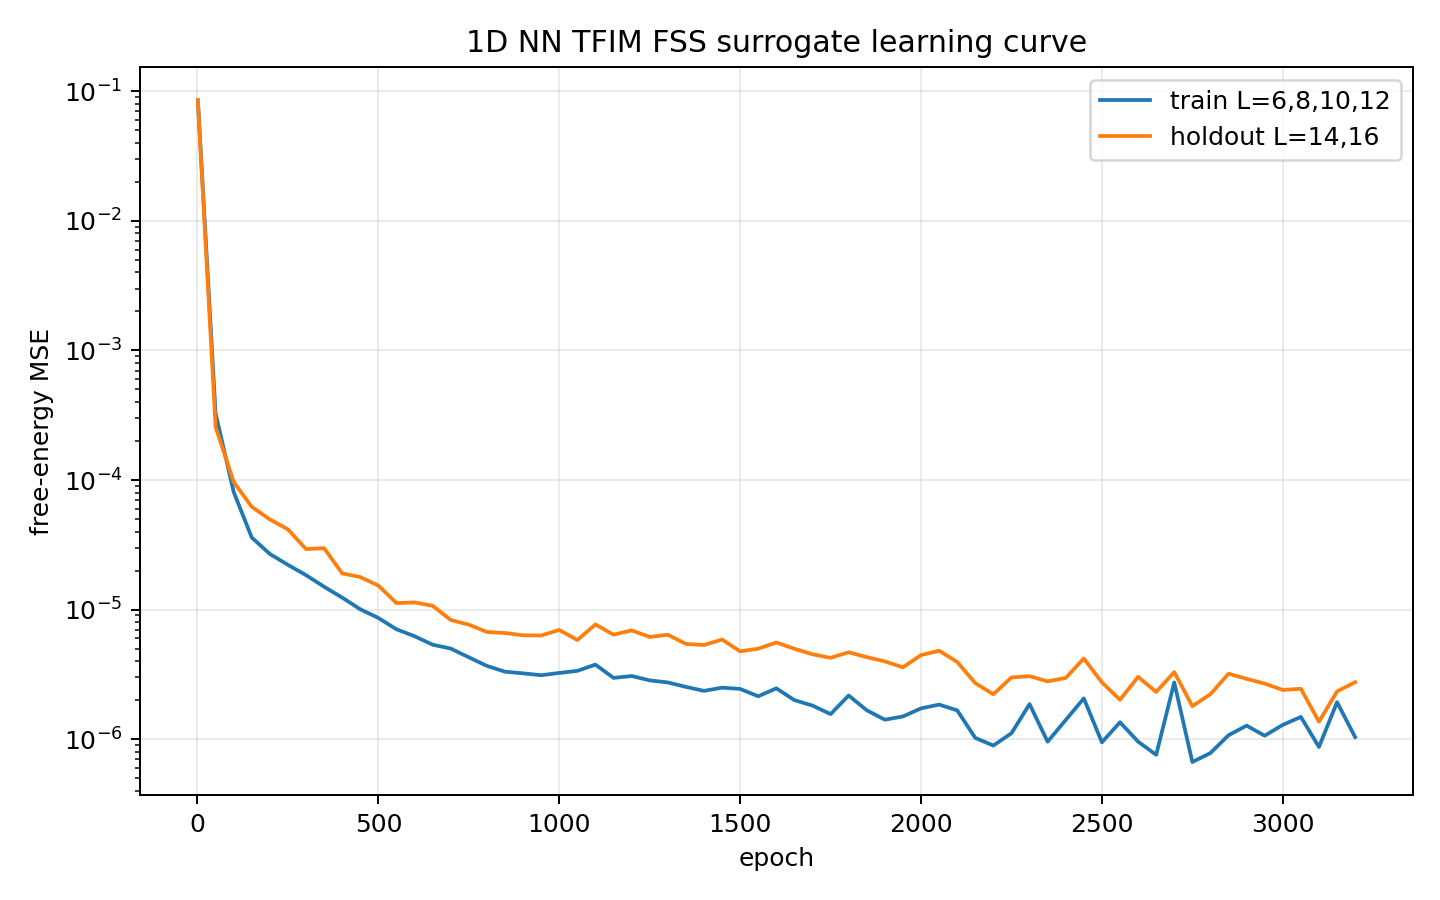
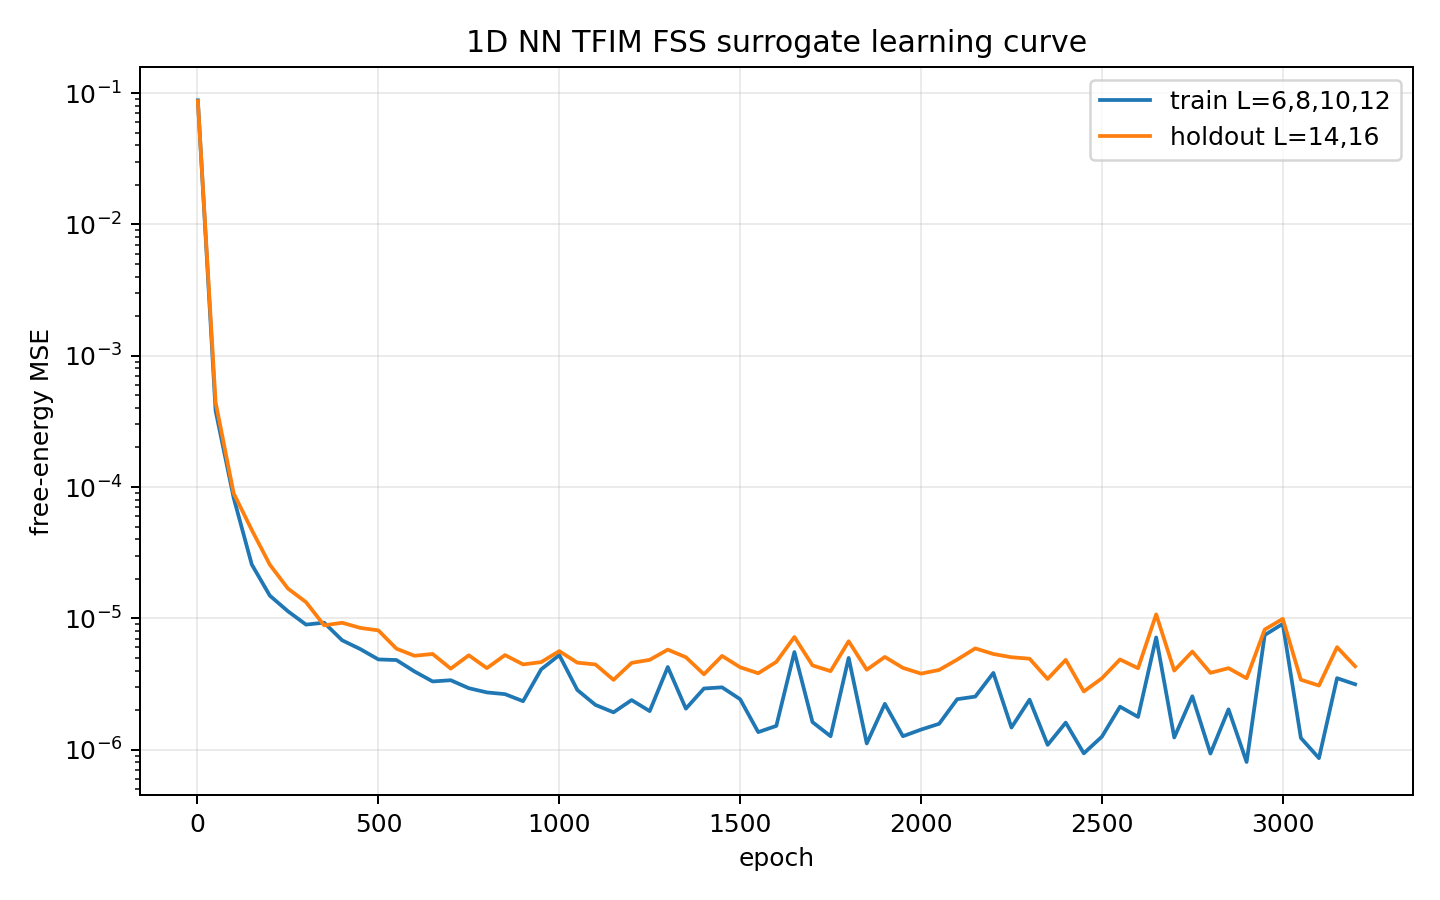
fix: correct FSS feature scaling to r2*log(r2) and add convexity penalty

diff --git a/testJin/TFIM_1D_NN/src/3_train.py b/testJin/TFIM_1D_NN/src/3_train.py
@@ -77,8 +77,16 @@ def _extrapolation_guardrail(params, xd, yd):
     finite_chi = yd[:, 2]
     allowed = jnp.maximum(finite_chi + 0.22, 1.18 * finite_chi + 0.05)
     critical = jnp.exp(-((xd[:, 1] - 1.0) / 0.25) ** 2) / (1.0 + 3.0 * xd[:, 0])
+    
+    # 1. Overshoot penalty (don't go too high above finite L)
     overshoot = jax.nn.relu(chi_inf - allowed)
-    return jnp.mean(critical * (overshoot / (0.15 + jnp.abs(allowed))) ** 2)
+    overshoot_loss = jnp.mean(critical * (overshoot / (0.15 + jnp.abs(allowed))) ** 2)
+    
+    # 2. Curvature Inversion Penalty (chi MUST be positive)
+    # If chi_inf < 0, heavily penalize.
+    inversion_loss = jnp.mean(jax.nn.relu(-chi_inf) ** 2) * 50.0
+    
+    return overshoot_loss + inversion_loss
 
 
 def _loss(params, xb, yb, xd, yd, chi_weight, cv_weight, guardrail_weight):
@@ -190,8 +198,8 @@ def main():
 
     elapsed = time.time() - start
     metadata = {
-        "variant": "ferro_lowT_focus",
-        "story": "Ferromagnetic and low-T focus: Added explicit weighting for h < 0.9 and sharpened low T weighting.",
+        "variant": "hessian_feature_tuned_fixed",
+        "story": "Feature Engineering + Convexity Penalty: Fixed negative chi bug by using correct scaling r2*log(r2) and adding a strict convexity loss to prevent curvature inversion.",
         "train_L": [6, 8, 10, 12],
         "holdout_L": [14, 16],
         "epochs": epochs,

diff --git a/testJin/TFIM_1D_NN/src/5_compare_variants.py b/testJin/TFIM_1D_NN/src/5_compare_variants.py
@@ -20,6 +20,7 @@ VARIANTS = {
     "sobolev_critical": ROOT / "src" / "variants" / "sobolev_critical" / "2_jax_model.py",
     "balanced_peak_guard": ROOT / "src" / "variants" / "balanced_peak_guard" / "2_jax_model.py",
     "ferro_lowT_focus": ROOT / "src" / "variants" / "ferro_lowT_focus" / "2_jax_model.py",
+    "hessian_feature_tuned_fixed": ROOT / "src" / "variants" / "hessian_feature_tuned_fixed" / "2_jax_model.py",
 }
 
 

diff --git a/testJin/TFIM_1D_NN/results_variant_comparison.md b/testJin/TFIM_1D_NN/results_variant_comparison.md
@@ -10,6 +10,7 @@ MSE도 유지하지만, 상전이 학습 여부를 보려면 chi MAE/correlation
 | sobolev_critical | 2.079613e-06 | 1.908193e-02 | 9.942826e-01 | 2.486486e-02 | 7.315459e-02 | 7.211815e-01 | 1.589728e-01 | 2.222224e-02 | 1.063536e-01 | 6.666668e-02 | 9.140961e-02 |
 | balanced_peak_guard | 2.113428e-06 | 1.793382e-02 | 9.954576e-01 | 2.347891e-02 | 4.354501e-02 | 9.628753e-01 | 8.493965e-02 | 1.904764e-02 | 5.387402e-02 | 4.000001e-02 | 4.586393e-02 |
 | ferro_lowT_focus | 2.749661e-06 | 1.743876e-02 | 9.961336e-01 | 2.090584e-02 | 4.542108e-02 | 9.433500e-01 | 8.404960e-02 | 2.222222e-02 | 9.283515e-02 | 4.095238e-02 | 7.119573e-02 |
+| hessian_feature_tuned_fixed | 4.314020e-06 | 1.729939e-02 | 9.958171e-01 | 2.166094e-02 | 4.610873e-02 | 9.742687e-01 | 6.017792e-02 | 9.523809e-03 | 5.979157e-02 | 7.333333e-02 | 6.909606e-02 |
 
 ## 피크 진단
 
@@ -52,4 +53,14 @@ MSE도 유지하지만, 상전이 학습 여부를 보려면 chi MAE/correlation
 | 0.200 | 0.99048 | 0.95238 | 0.03810 | 1.00703 | 0.92028 | 0.09426 |
 | 0.500 | 0.92381 | 0.78571 | 0.13810 | 0.67941 | 0.67706 | 0.00346 |
 | 1.000 | 0.10000 | 0.10000 | 0.00000 | 0.63382 | 0.59014 | 0.07402 |
+
+### hessian_feature_tuned_fixed
+
+| T | 예측 h_peak | 해석해 h_peak | h 절대오차 | 예측 chi_peak | 해석해 chi_peak | chi 상대오차 |
+|---:|---:|---:|---:|---:|---:|---:|
+| 0.050 | 0.99524 | 0.99524 | 0.00000 | 1.19361 | 1.34309 | 0.11129 |
+| 0.100 | 0.99048 | 0.98571 | 0.00476 | 1.10939 | 1.12738 | 0.01596 |
+| 0.200 | 0.97619 | 0.95238 | 0.02381 | 0.96826 | 0.92028 | 0.05213 |
+| 0.500 | 0.44762 | 0.78571 | 0.33810 | 0.63324 | 0.67706 | 0.06473 |
+| 1.000 | 0.10000 | 0.10000 | 0.00000 | 0.64997 | 0.59014 | 0.10138 |
 